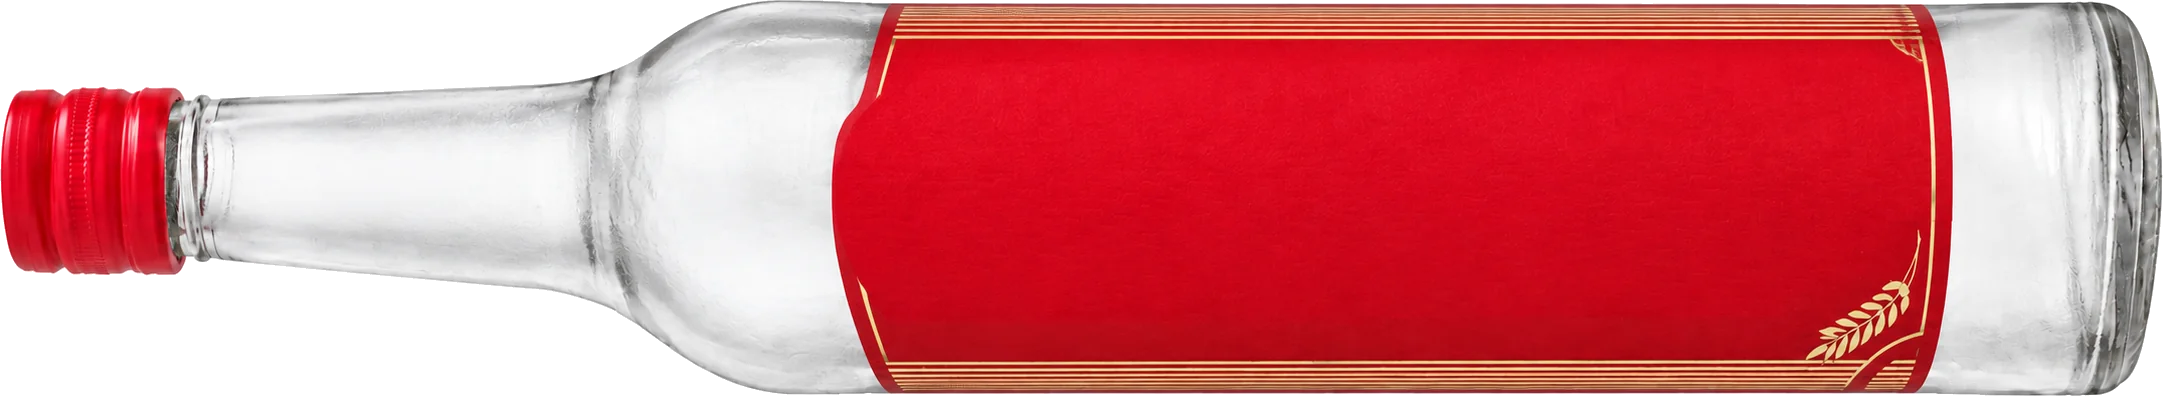
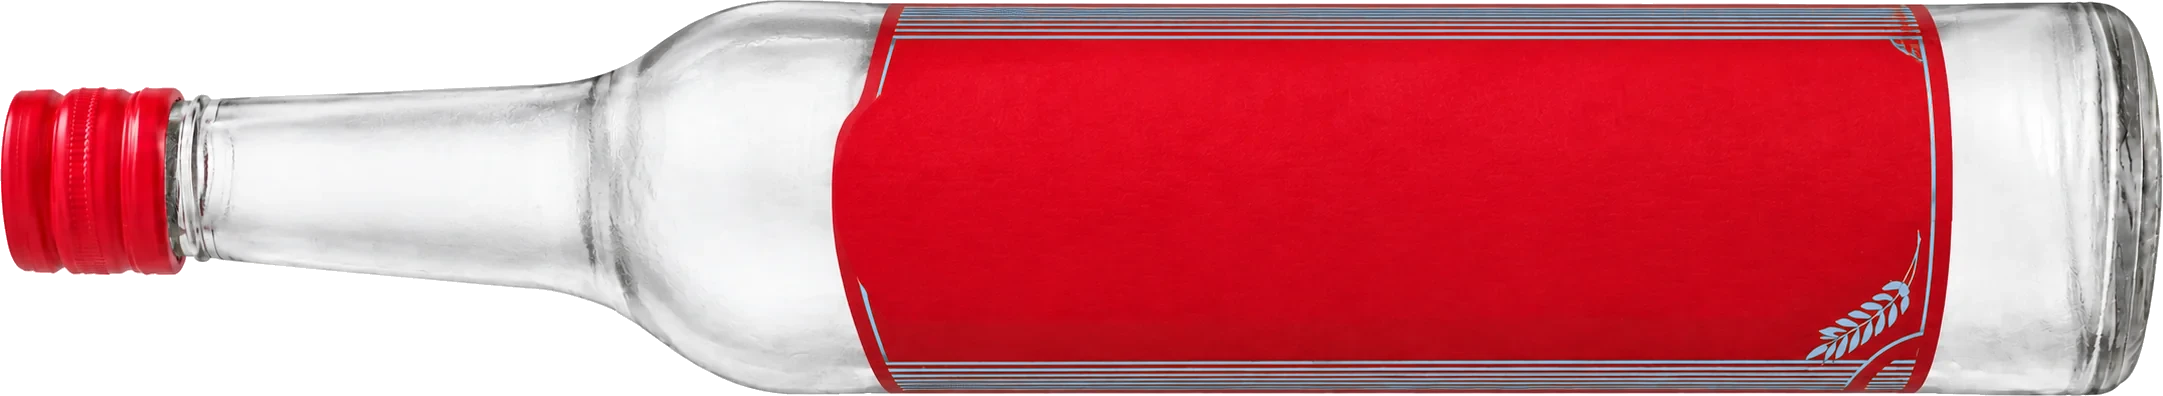
Notebook palette: paper background, grey-blue ruling, ink-blue buttons
The gold stripes and wheat on both bottles are recoloured to the
notebook's ruling blue; site background, borders, inputs and primary
buttons follow the same squared-notebook palette.

Claude-Session: https://claude.ai/code/session_01FoJXEt7mBcfZua3bz27njN

Changed region(s): [[0.4027, 0.0, 0.8983, 0.1515], [0.4027, 0.697, 0.8983, 1.0], [0.8673, 0.5758, 0.8983, 0.6667]]

diff --git a/src/styles.css b/src/styles.css
@@ -90,13 +90,17 @@
   --burgundy: oklch(0.43 0.09 20);
   --ochre: oklch(0.7 0.11 75);
   --dusty: oklch(0.62 0.05 240);
-  --background: oklch(1 0 0);
+  /* Squared-notebook palette: off-white paper, grey-blue ruling, fountain-pen ink. */
+  --paper: #fbfaf4;
+  --ruling: #b9c9d6;
+  --ink: oklch(0.38 0.09 258);
+  --background: var(--paper);
   --foreground: oklch(0.2 0.012 150);
-  --card: oklch(1 0 0);
+  --card: var(--paper);
   --card-foreground: oklch(0.2 0.012 150);
-  --popover: oklch(1 0 0);
+  --popover: var(--paper);
   --popover-foreground: oklch(0.2 0.012 150);
-  --primary: oklch(0.36 0.07 160);
+  --primary: var(--ink);
   --primary-foreground: oklch(0.96 0.014 85);
   --secondary: oklch(0.9 0.012 85);
   --secondary-foreground: oklch(0.2 0.012 150);
@@ -106,9 +110,9 @@
   --accent-foreground: oklch(0.96 0.014 85);
   --destructive: oklch(0.5 0.15 25);
   --destructive-foreground: oklch(0.96 0.014 85);
-  --border: oklch(0.8 0.012 100);
-  --input: oklch(0.8 0.012 100);
-  --ring: oklch(0.42 0.07 160);
+  --border: var(--ruling);
+  --input: var(--ruling);
+  --ring: var(--ink);
   --chart-1: var(--bottle); --chart-2: var(--burgundy); --chart-3: var(--ochre); --chart-4: var(--dusty); --chart-5: oklch(0.7 0 0);
   --sidebar: var(--card); --sidebar-foreground: var(--foreground); --sidebar-primary: var(--primary);
   --sidebar-primary-foreground: var(--primary-foreground); --sidebar-accent: var(--secondary);
@@ -127,7 +131,7 @@
   --purchase-glass: oklch(0.9 0.035 215 / 0.65);
   --purchase-glass-edge: oklch(0.72 0.05 215 / 0.6);
   --footer-ink: var(--bottle-label-ink);
-  --footer-form-glass: oklch(0.96 0.012 165 / 0.78);
+  --footer-form-glass: color-mix(in oklab, var(--paper) 82%, transparent);
   --footer-form-edge: var(--glass-edge);
   --footer-text-shadow: 0 2px 3px oklch(0.18 0.055 20 / 0.9), 0 0 12px oklch(0.18 0.055 20 / 0.7);
 }
